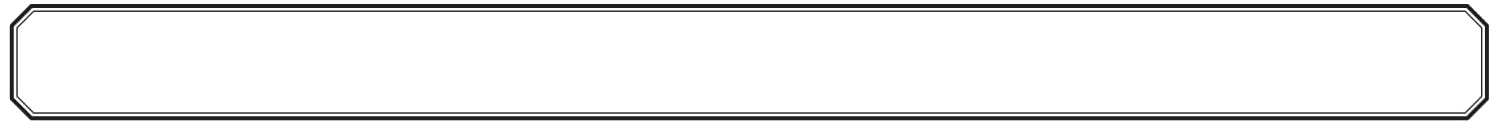
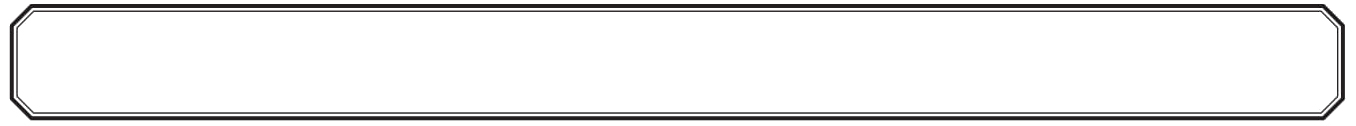
Resize BoxFour

Changed region(s): [[0.9602, 0.0476, 1.0, 0.9524], [0.0, 0.0476, 0.031, 0.9524]]

diff --git a/FreeForm.css b/FreeForm.css
@@ -301,11 +301,11 @@ div.sheet-bbackground{
 }
 
 div.sheet-bbackground div.sheet-section-small{
-  background-image: url(https://github.com/6litch/DnD-FreeForm/blob/master/images/BoxOne.jpg?raw=true);
+  background-image: url(https://github.com/6litch/DnD-FreeForm/blob/master/images/BoxFour.jpg?raw=true);
   background-size: contain;
   background-repeat: no-repeat;
   height: 50px;
-  width: 290px;
+  width: 1356px;
 }
 
 
